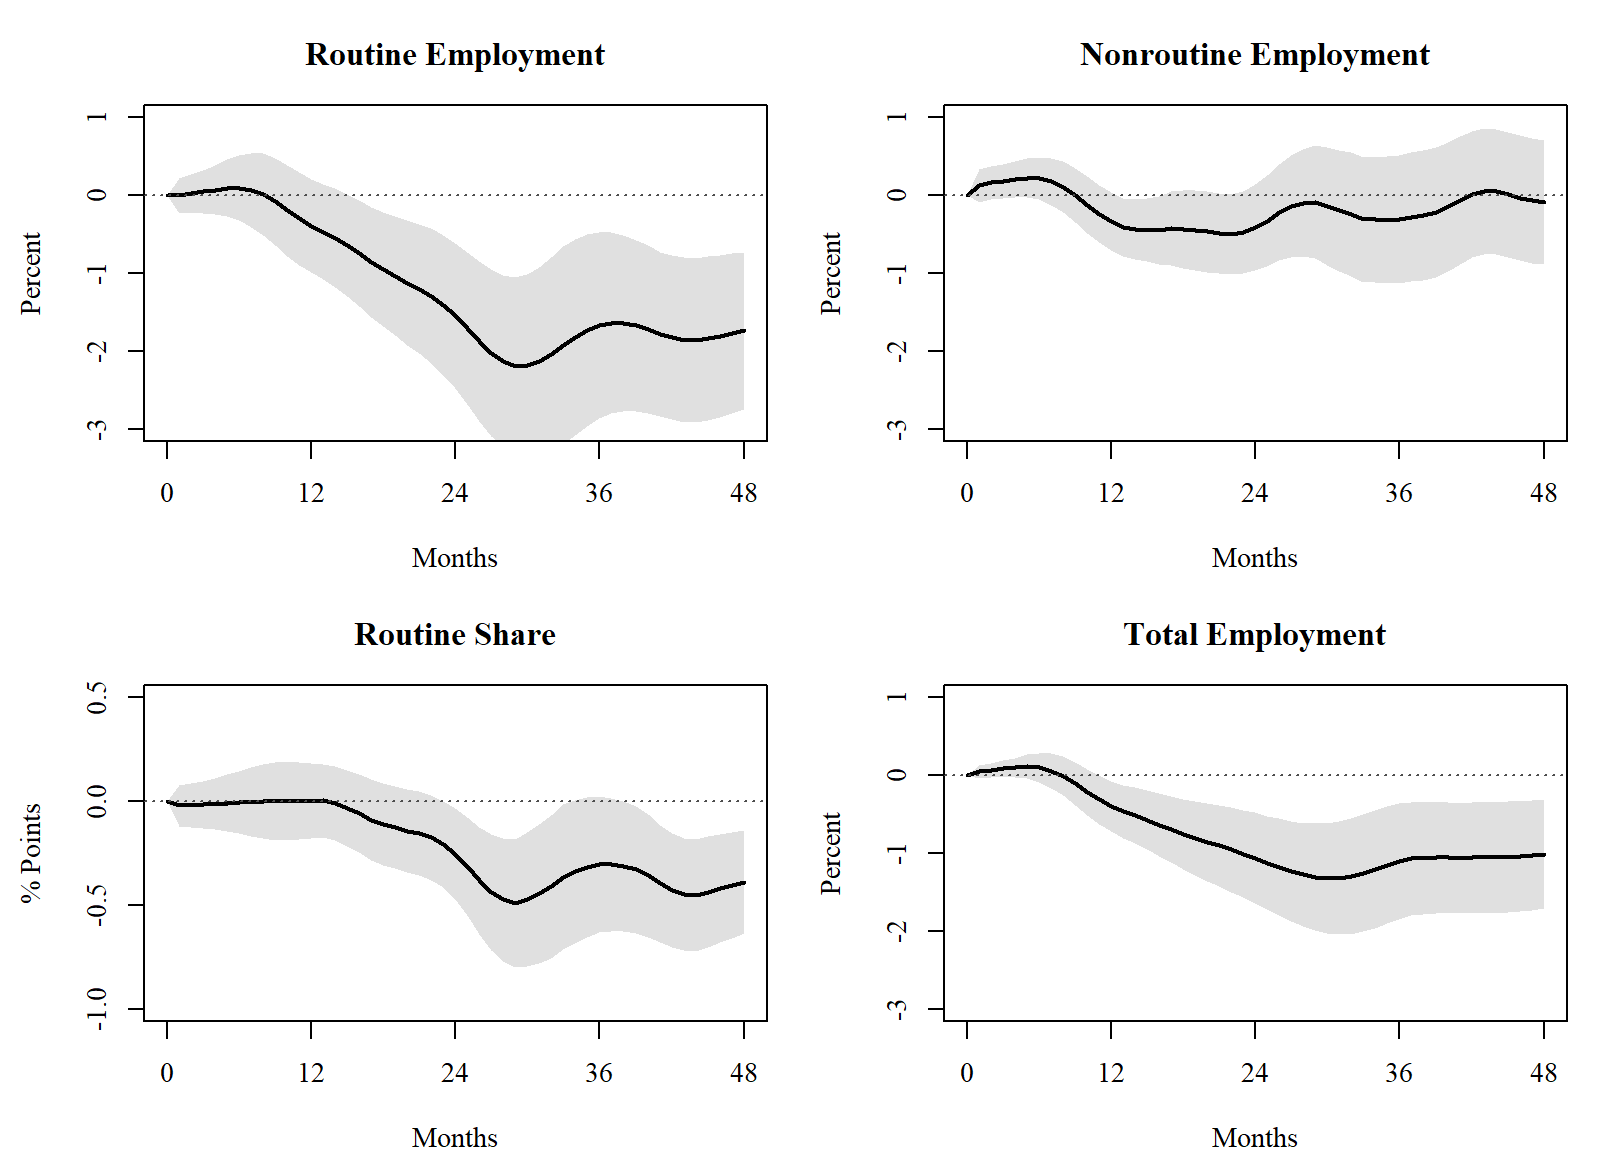
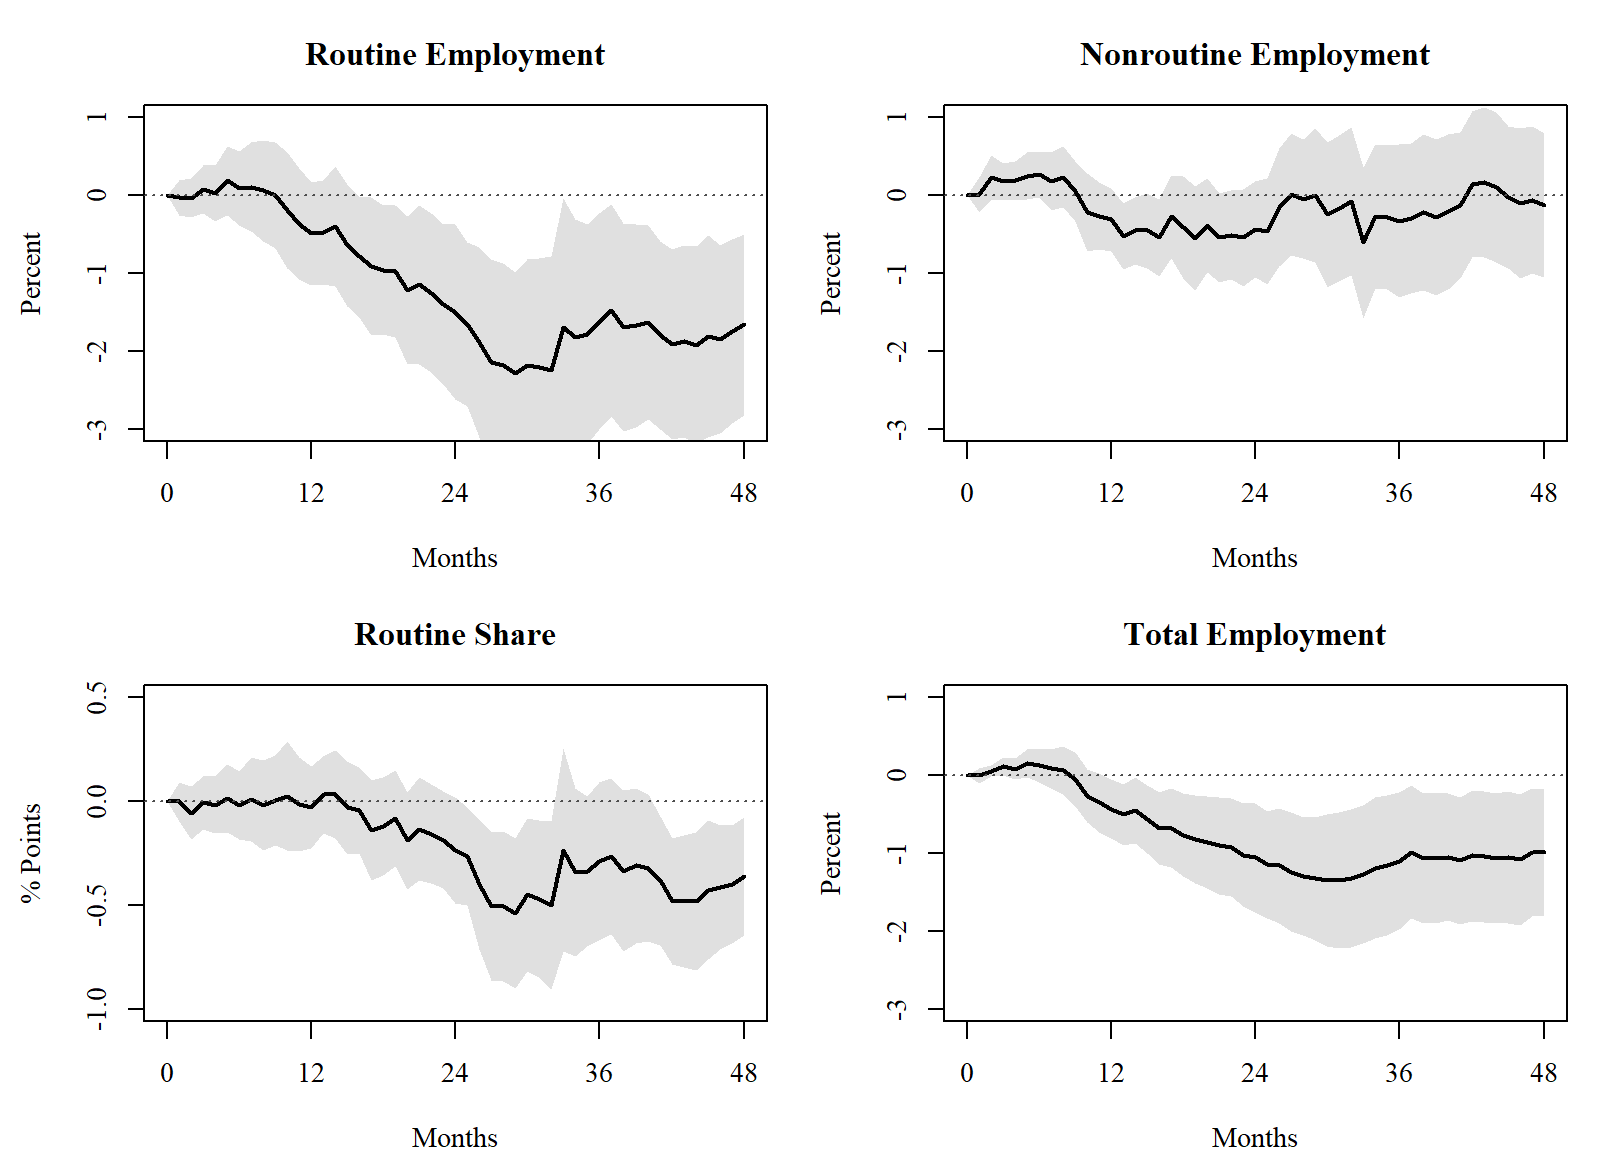
Produced Figure 3 with JK shocks and comparison of all the shocks reaction for the joint window.

diff --git a/R/README.md b/R/README.md
@@ -40,10 +40,8 @@ The scripts use only base R, `stats`, and base graphics.
    - 12 lags of monthly outcome changes
    - 12 lags of monetary shocks
    - Newey-West HAC standard errors with 12 lags
-6. Applies the same Figure 3 display smoother as the Python pipeline and also
-   writes unsmoothed diagnostic outputs.
-7. Writes Figures 1-3, all individual IRF plots, FEV shares, the LP panel, and
-   a Python-reference validation file.
+6. Writes Figure 3 directly from the raw local-projection estimates.
+7. Writes Figures 1-3, all individual IRF plots, FEV shares, and the LP panel.
 
 The data-build diagnostics are written to:
 
@@ -54,23 +52,17 @@ output/data_build/
 ## Important Difference From the Latest Python Plot
 
 The current Python `output/figure3_linear_occupations.png` includes a display
-smoother. The R port writes both the smoothed Python-style output and the raw
-unsmoothed diagnostic output:
+smoother. The R port intentionally does not smooth Figure 3 and writes only the
+raw local-projection output:
 
 - `output/figure3_linear_occupations.png`
 - `output/figure3_linear_irfs.csv`
-- `output/figure3_linear_occupations_unsmoothed.png`
-- `output/figure3_linear_irfs_unsmoothed.csv`
 
 ## Reference Files
 
 The `reference/` folder contains copied Python outputs from the previous step.
-The R pipeline compares its raw and plotted Figure 3 IRFs against that reference
-and writes:
-
-```text
-output/validation_against_python.csv
-```
+The reference files are retained for comparison with the Python pipeline. The
+current R scripts write raw, unsmoothed Figure 3 IRFs.
 
 No original Python input files were removed; they were copied here so this R
 folder can be run independently without breaking the existing Python workflow.